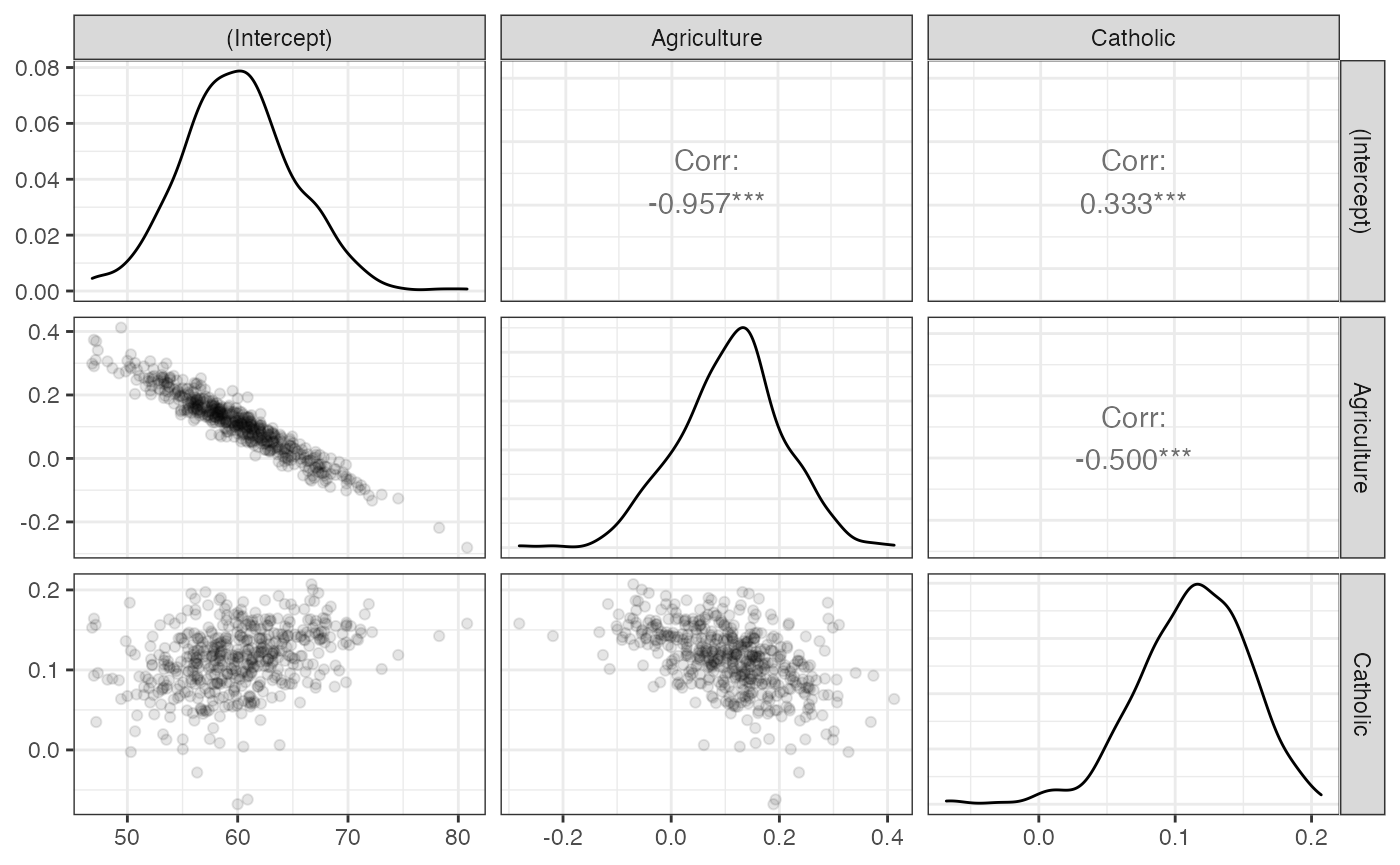
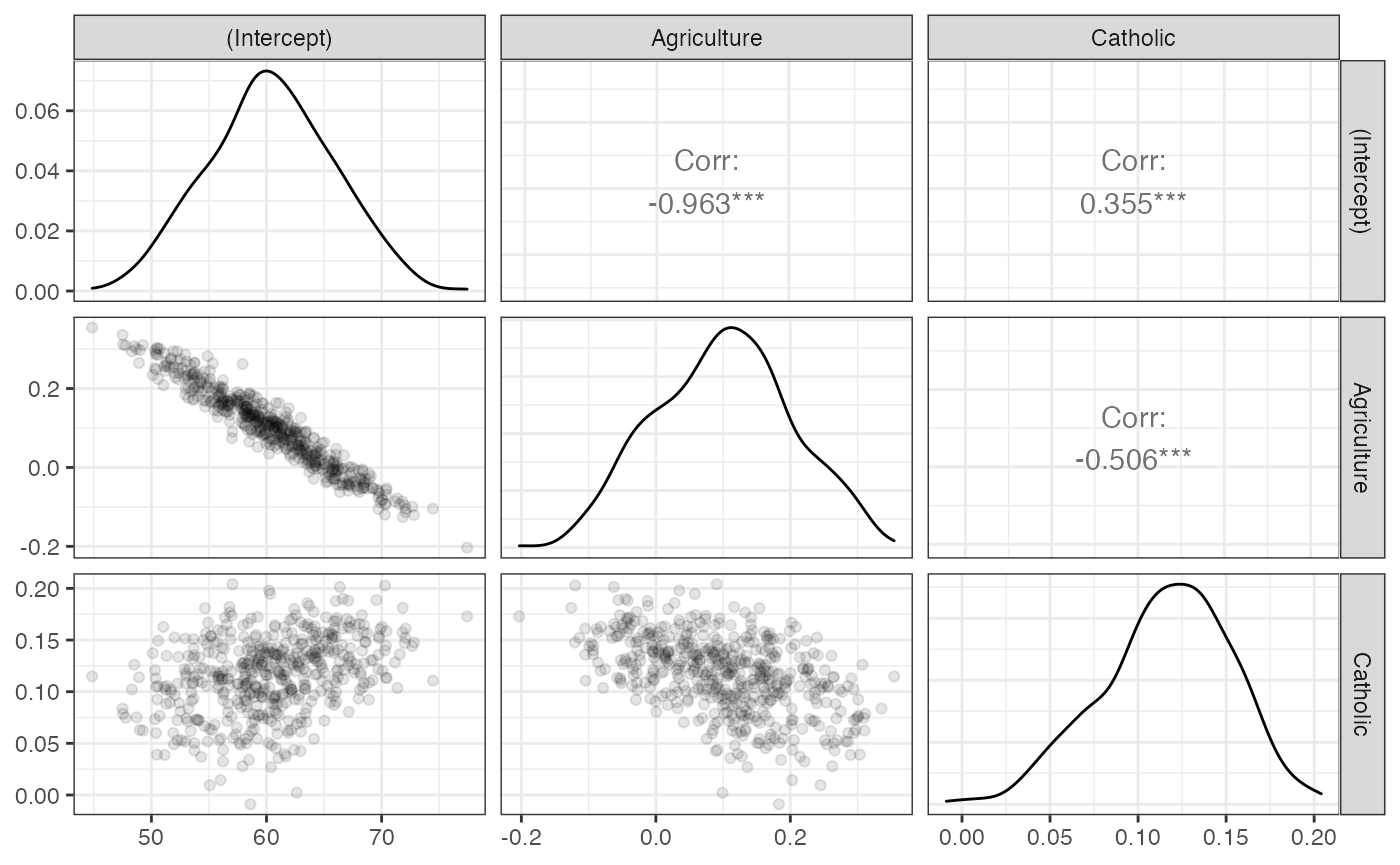
Deploying to gh-pages from  @ 894de3af3aa34b9bc925566d8cc52f96c9a7a11e 🚀

diff --git a/r/estimatr/articles/estimatr-in-the-tidyverse.html b/r/estimatr/articles/estimatr-in-the-tidyverse.html
@@ -271,72 +271,72 @@
 <tr class="odd">
 <td align="left">1</td>
 <td align="left">(Intercept)</td>
-<td align="right">63.8454098</td>
-<td align="right">5.3853037</td>
-<td align="right">11.8554891</td>
+<td align="right">59.8150913</td>
+<td align="right">6.4004550</td>
+<td align="right">9.3454436</td>
 <td align="right">0.0000000</td>
-<td align="right">52.9920433</td>
-<td align="right">74.6987764</td>
+<td align="right">46.9158218</td>
+<td align="right">72.7143608</td>
 <td align="right">44</td>
 <td align="left">Fertility</td>
 </tr>
 <tr class="even">
 <td align="left">1</td>
 <td align="left">Catholic</td>
-<td align="right">0.0672104</td>
-<td align="right">0.0399530</td>
-<td align="right">1.6822365</td>
-<td align="right">0.0996078</td>
-<td align="right">-0.0133096</td>
-<td align="right">0.1477303</td>
+<td align="right">0.1070303</td>
+<td align="right">0.0411775</td>
+<td align="right">2.5992402</td>
+<td align="right">0.0126683</td>
+<td align="right">0.0240424</td>
+<td align="right">0.1900182</td>
 <td align="right">44</td>
 <td align="left">Fertility</td>
 </tr>
 <tr class="odd">
 <td align="left">1</td>
 <td align="left">Agriculture</td>
-<td align="right">0.0749873</td>
-<td align="right">0.0996665</td>
-<td align="right">0.7523819</td>
-<td align="right">0.4558278</td>
-<td align="right">-0.1258774</td>
-<td align="right">0.2758520</td>
+<td align="right">0.0847765</td>
+<td align="right">0.1206515</td>
+<td align="right">0.7026565</td>
+<td align="right">0.4859709</td>
+<td align="right">-0.1583805</td>
+<td align="right">0.3279336</td>
 <td align="right">44</td>
 <td align="left">Fertility</td>
 </tr>
 <tr class="even">
 <td align="left">2</td>
 <td align="left">(Intercept)</td>
-<td align="right">54.4964746</td>
-<td align="right">4.2443518</td>
-<td align="right">12.8397637</td>
+<td align="right">62.8675260</td>
+<td align="right">3.4999430</td>
+<td align="right">17.9624427</td>
 <td align="right">0.0000000</td>
-<td align="right">45.9425456</td>
-<td align="right">63.0504037</td>
+<td align="right">55.8138543</td>
+<td align="right">69.9211977</td>
 <td align="right">44</td>
 <td align="left">Fertility</td>
 </tr>
 <tr class="odd">
 <td align="left">2</td>
 <td align="left">Catholic</td>
-<td align="right">0.1034910</td>
-<td align="right">0.0500129</td>
-<td align="right">2.0692850</td>
-<td align="right">0.0444238</td>
-<td align="right">0.0026966</td>
-<td align="right">0.2042853</td>
+<td align="right">0.1236505</td>
+<td align="right">0.0371617</td>
+<td align="right">3.3273682</td>
+<td align="right">0.0017778</td>
+<td align="right">0.0487561</td>
+<td align="right">0.1985449</td>
 <td align="right">44</td>
 <td align="left">Fertility</td>
 </tr>
 <tr class="even">
 <td align="left">2</td>
 <td align="left">Agriculture</td>
-<td align="right">0.2457003</td>
-<td align="right">0.0919719</td>
-<td align="right">2.6714703</td>
-<td align="right">0.0105474</td>
-<td align="right">0.0603430</td>
-<td align="right">0.4310576</td>
+<td align="right">0.0432976</td>
+<td align="right">0.0669280</td>
+<td align="right">0.6469281</td>
+<td align="right">0.5210393</td>
+<td align="right">-0.0915870</td>
+<td align="right">0.1781822</td>
 <td align="right">44</td>
 <td align="left">Fertility</td>
 </tr>
@@ -350,9 +350,9 @@
 <pre><code>## # A tibble: 3 x 2
 ##   term        boot_se
 ##   &lt;chr&gt;         &lt;dbl&gt;
-## 1 (Intercept)  5.15  
-## 2 Agriculture  0.0968
-## 3 Catholic     0.0404</code></pre>
+## 1 (Intercept)  5.44  
+## 2 Agriculture  0.101 
+## 3 Catholic     0.0369</code></pre>
 <div class="sourceCode" id="cb15"><pre class="downlit sourceCode r">
 <code class="sourceCode R"><span class="co"># To visualize the sampling distribution</span>
 

diff --git a/r/estimatr/articles/absorbing-fixed-effects.html b/r/estimatr/articles/absorbing-fixed-effects.html
@@ -191,9 +191,9 @@
 <span class="op">)</span></code></pre></div>
 <pre><code>## Unit: milliseconds
 ##             expr       min        lq      mean    median        uq      max
-##  base + sandwich 169.23447 174.90009 188.35937 177.52702 180.08616 297.5600
-##        lm_robust  77.19685  79.60403  84.67968  80.94056  84.52691 145.4092
-##  lm_robust + fes  47.71419  50.01054  57.72788  51.41995  53.94126 184.3505
+##  base + sandwich 170.37474 175.00326 194.56758 178.63997 198.46435 346.0551
+##        lm_robust  74.67821  78.53060  82.86136  80.15741  82.89190 130.9598
+##  lm_robust + fes  48.07435  49.85271  55.23492  51.86923  52.84562 181.3013
 ##  neval cld
 ##     50   c
 ##     50  b 
@@ -220,14 +220,14 @@
   times <span class="op">=</span> <span class="fl">50</span>
 <span class="op">)</span></code></pre></div>
 <pre><code>## Unit: milliseconds
-##             expr        min         lq       mean     median         uq
-##  base + sandwich 170.509757 176.429398 194.148705 178.623173 199.254586
-##        lm_robust  60.773631  64.931595  68.895444  66.922104  68.898717
-##  lm_robust + fes   7.170917   7.788074   8.443547   8.118451   8.639359
-##       max neval cld
-##  330.7683    50   c
-##  121.5751    50  b 
-##   13.1574    50 a</code></pre>
+##             expr        min         lq      mean     median        uq       max
+##  base + sandwich 170.066446 174.041560 188.35455 178.576132 181.53102 314.48222
+##        lm_robust  58.225818  62.511918  66.81806  65.191931  67.94275  98.55524
+##  lm_robust + fes   7.098227   7.604915   8.65626   8.078694   8.50433  25.45241
+##  neval cld
+##     50   c
+##     50  b 
+##     50 a</code></pre>
 </div>
   </div>
 

diff --git a/r/estimatr/reference/starprep.html b/r/estimatr/reference/starprep.html
@@ -239,7 +239,7 @@ the preferred, robust statistics.</p>
           omit.stat <span class='op'>=</span> <span class='st'>"f"</span><span class='op'>)</span>
 </div><div class='output co'>#&gt; 
 #&gt; % Table created by stargazer v.5.2.2 by Marek Hlavac, Harvard University. E-mail: hlavac at fas.harvard.edu
-#&gt; % Date and time: Sun, May 30, 2021 - 23:42:59
+#&gt; % Date and time: Tue, Jun 01, 2021 - 23:57:40
 #&gt; \begin{table}[!htbp] \centering 
 #&gt;   \caption{} 
 #&gt;   \label{} 
@@ -279,7 +279,7 @@ the preferred, robust statistics.</p>
           omit.stat <span class='op'>=</span> <span class='st'>"f"</span><span class='op'>)</span>
 </div><div class='output co'>#&gt; 
 #&gt; % Table created by stargazer v.5.2.2 by Marek Hlavac, Harvard University. E-mail: hlavac at fas.harvard.edu
-#&gt; % Date and time: Sun, May 30, 2021 - 23:42:59
+#&gt; % Date and time: Tue, Jun 01, 2021 - 23:57:40
 #&gt; \begin{table}[!htbp] \centering 
 #&gt;   \caption{} 
 #&gt;   \label{} 
@@ -316,7 +316,7 @@ the preferred, robust statistics.</p>
           omit.stat <span class='op'>=</span> <span class='st'>"f"</span><span class='op'>)</span>
 </div><div class='output co'>#&gt; 
 #&gt; % Table created by stargazer v.5.2.2 by Marek Hlavac, Harvard University. E-mail: hlavac at fas.harvard.edu
-#&gt; % Date and time: Sun, May 30, 2021 - 23:42:59
+#&gt; % Date and time: Tue, Jun 01, 2021 - 23:57:40
 #&gt; \begin{table}[!htbp] \centering 
 #&gt;   \caption{} 
 #&gt;   \label{} 

diff --git a/r/estimatr/articles/regression-tables.html b/r/estimatr/articles/regression-tables.html
@@ -258,7 +258,7 @@
 <span class="va">fit</span> <span class="op">&lt;-</span> <span class="fu"><a href="../reference/lm_robust.html">lm_robust</a></span><span class="op">(</span><span class="va">mpg</span> <span class="op">~</span> <span class="va">disp</span>, data <span class="op">=</span> <span class="va">mtcars</span><span class="op">)</span>
 <span class="va">fit</span> <span class="op">%&gt;%</span> <span class="va">tidy</span> <span class="op">%&gt;%</span> <span class="fu"><a href="https://rdrr.io/pkg/xtable/man/xtable.html">xtable</a></span><span class="op">(</span><span class="op">)</span></code></pre></div>
 <pre><code>## % latex table generated in R 4.1.0 by xtable 1.8-4 package
-## % Sun May 30 23:44:03 2021
+## % Tue Jun  1 23:58:46 2021
 ## \begin{table}[ht]
 ## \centering
 ## \begin{tabular}{rlrrrrrrrl}
